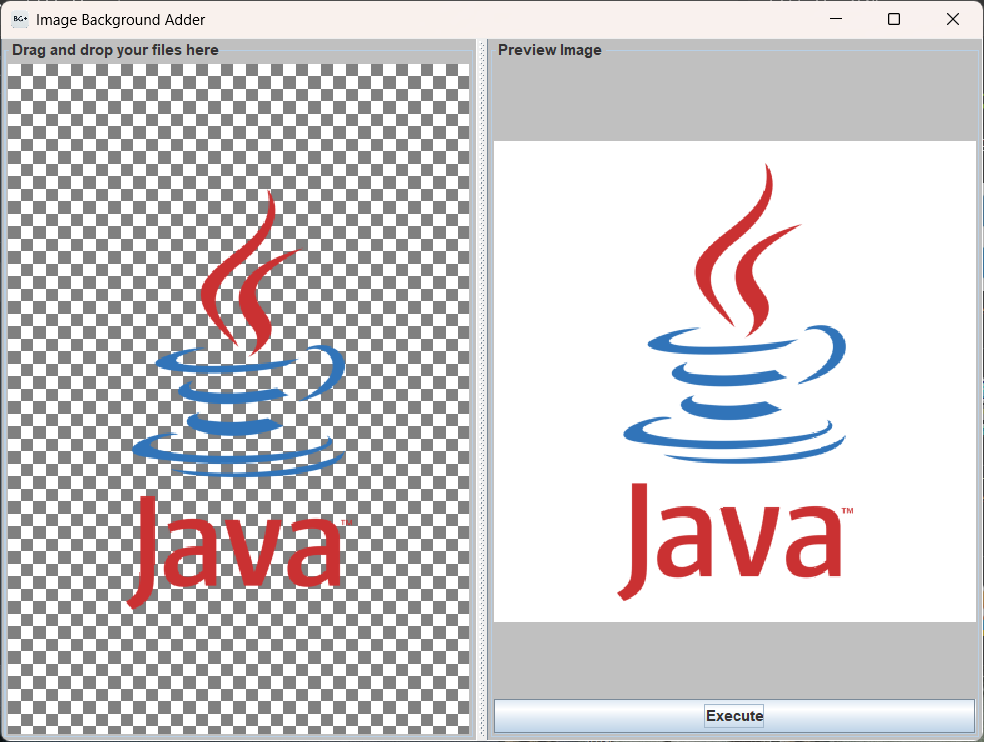
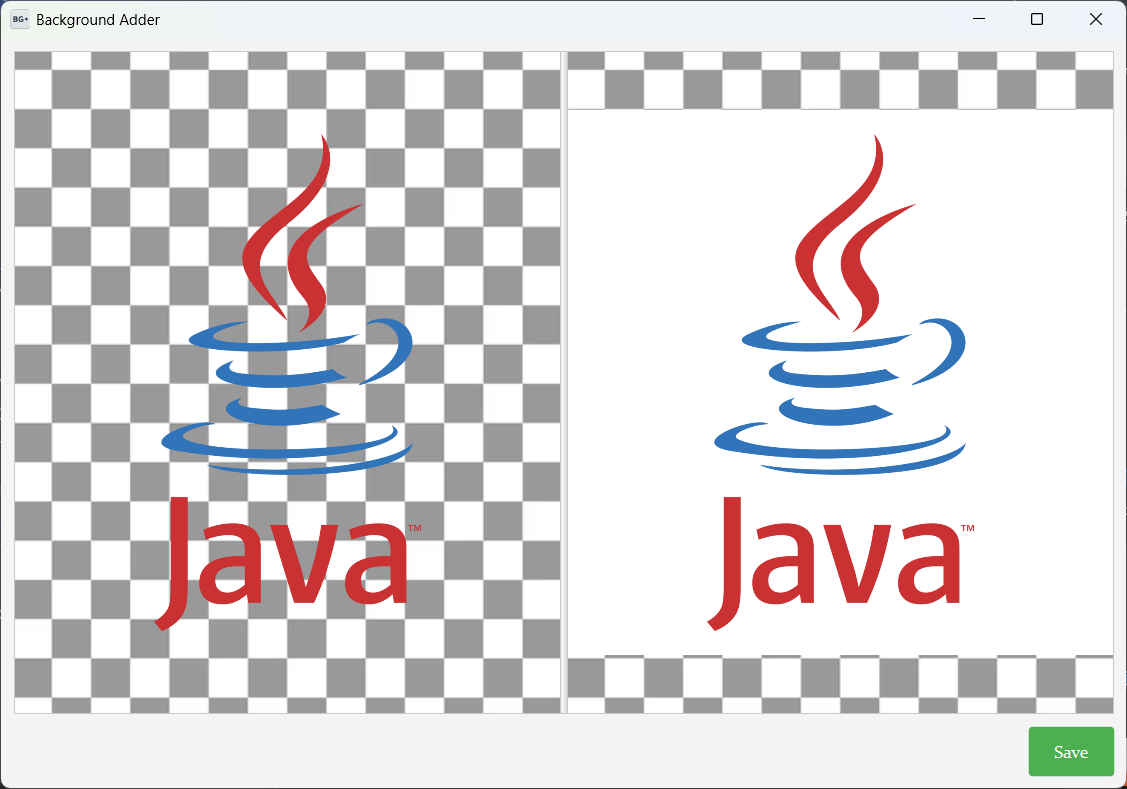
chore: Edit build file and CHANGELOG and bump the version number

diff --git a/CHANGELOG.md b/CHANGELOG.md
@@ -1,9 +1,13 @@
 # Changelog
 
-## [0.2.2-SNAPSHOT]
-### Fixed
-- Delete existing SVG file before creating a new one (close #4)
+## [1.0.0] - 2025-02-12
+### Changed
+- Migrated from Java Swing to JavaFX for UI improvements and better scalability.
 
+### Fixed
+- Fixed issue where image size did not change when resizing the window.
+- Fixed minor bugs related to SVG file handling.
+- Delete existing SVG file before creating a new one (close #4)
 ## [0.2.1] - 2025-01-19
 ### Added
 - Support for SVG files
